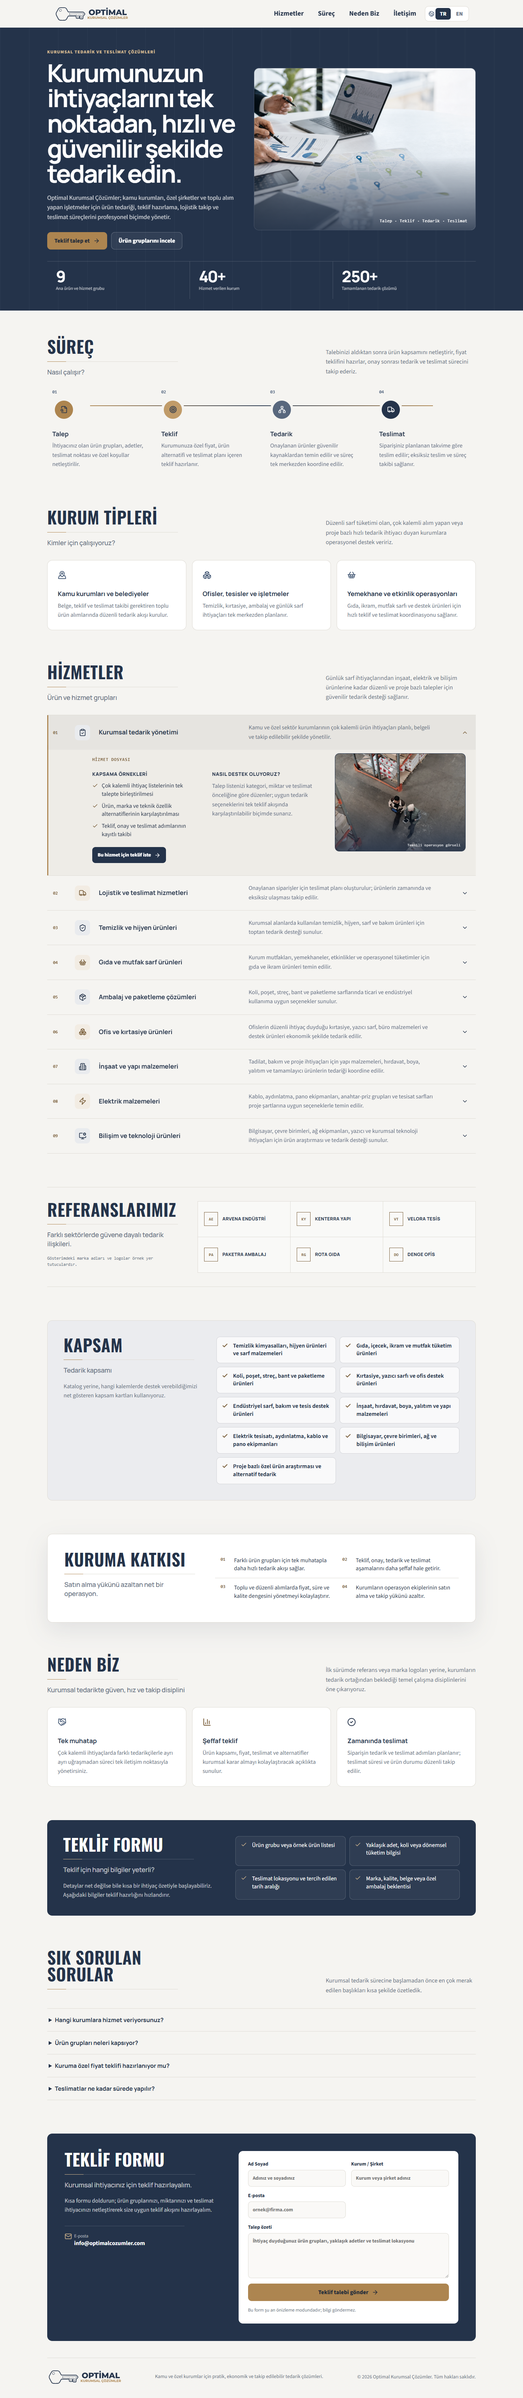
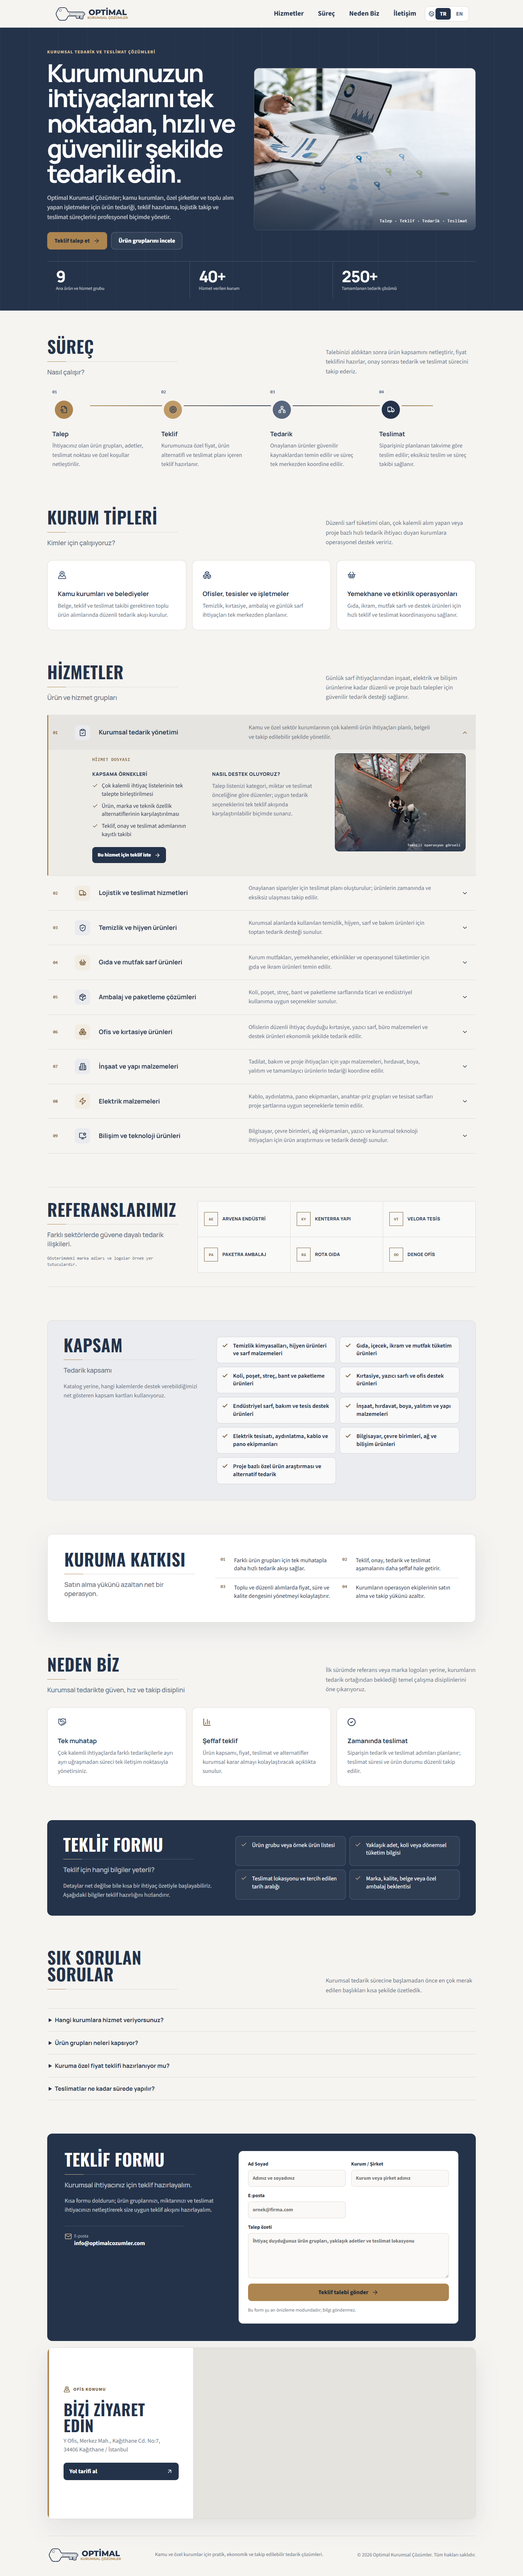
konum eklendi

Changed region(s): [[0.0, 0.0, 1.0, 0.9985], [0.375, 0.2184, 0.5625, 0.2496]]

diff --git a/src/styles.css b/src/styles.css
@@ -144,7 +144,7 @@ p { line-height: 1.58; }
 .hero-stats span { color: rgba(255,255,255,.67); font-size: .78rem; line-height: 1.3; }
 .hero-stats .hero-stat-number { color: inherit; font-size: inherit; line-height: inherit; }
 
-.section, .references-section, .scope-panel, .benefits-band, .quote-panel, .contact-section, .site-footer { width: var(--page); margin-right: auto; margin-left: auto; }
+.section, .references-section, .scope-panel, .benefits-band, .quote-panel, .contact-section, .location-section, .site-footer { width: var(--page); margin-right: auto; margin-left: auto; }
 .card-index, .step-number, .benefit-list span { color: var(--amber-dark); font-family: ui-monospace, SFMono-Regular, Consolas, monospace; font-size: .75rem; font-weight: 800; }
 .section { padding-top: 92px; }
 .section-heading { display: grid; grid-template-columns: minmax(0,1fr) minmax(280px,.58fr); gap: 54px; align-items: end; margin-bottom: 36px; }
@@ -367,6 +367,18 @@ p { line-height: 1.58; }
 .form-button { border: 0; cursor: pointer; }
 .form-note { margin: 0; color: var(--muted); font-size: .82rem; }
 .form-note.is-success { color: var(--green); font-weight: 750; }
+.location-section { display: grid; grid-template-columns: minmax(320px,.68fr) minmax(0,1.32fr); min-height: 470px; margin-top: 18px; overflow: hidden; border: 1px solid var(--line); border-radius: var(--radius); background: var(--surface); box-shadow: var(--shadow); }
+.location-map { grid-column: 2; height: 470px; overflow: hidden; border-left: 1px solid var(--line); background: #e5e3dd; }
+.location-map iframe { display: block; width: 100%; height: 100%; border: 0; filter: saturate(.72) contrast(1.02); }
+.location-card {
+  grid-column: 1; grid-row: 1; display: grid; gap: 24px; align-content: center; min-width: 0; padding: 40px;
+  border-left: 4px solid var(--amber); background: var(--surface);
+}
+.location-kicker { display: flex; align-items: center; gap: 9px; color: var(--amber-dark); font-size: .76rem; font-weight: 850; letter-spacing: .09em; text-transform: uppercase; }
+.location-card h2 { margin: 0 0 10px; font-family: "Oswald Variable", sans-serif; font-size: clamp(2rem,3vw,2.7rem); font-weight: 650; line-height: 1; letter-spacing: .012em; text-transform: uppercase; }
+.location-card address { max-width: 36ch; color: var(--muted); font-style: normal; line-height: 1.5; }
+.location-directions { display: inline-flex; align-items: center; justify-content: space-between; gap: 20px; min-height: 48px; padding: 0 16px; border-radius: 9px; background: var(--navy); color: #fff; font-weight: 800; transition: background 160ms ease, transform 160ms ease; }
+.location-directions:hover { background: var(--blue); transform: translateY(-1px); }
 .site-footer { display: grid; grid-template-columns: auto 1fr auto; gap: 40px; align-items: center; margin-top: 46px; padding: 28px 0 34px; border-top: 1px solid var(--line); color: var(--muted); font-size: .86rem; }
 .site-footer p { margin: 0; text-align: center; }
 
@@ -416,6 +428,9 @@ p { line-height: 1.58; }
   .service-detail { grid-template-columns: 1fr; gap: 24px; padding: 8px 24px 28px 128px; }
   .service-media { order: -1; width: min(100%,520px); }
   .scope-panel, .benefits-band, .quote-panel, .contact-section { gap: 30px; padding: 34px; }
+  .location-section { grid-template-columns: 1fr; }
+  .location-map { grid-column: 1; height: 360px; border: 0; border-top: 1px solid var(--line); }
+  .location-card { grid-column: 1; order: -1; width: 100%; padding: 28px; border: 0; border-top: 4px solid var(--amber); }
   .process-list { grid-template-columns: repeat(2,1fr); gap: 30px 16px; }
   .process-list::before { display: none; }
   .process-item { padding: 0; }
@@ -463,6 +478,8 @@ p { line-height: 1.58; }
   .process-item h3, .process-item p { grid-column: 2; }
   .contact-form { padding: 18px; }
   .contact-form label:nth-of-type(4), .form-button, .form-note { grid-column: 1; }
+  .location-map { height: 300px; }
+  .location-card { gap: 18px; padding: 23px 20px; }
 }
 
 @media (max-width: 360px) {

diff --git a/src/App.tsx b/src/App.tsx
@@ -1,5 +1,5 @@
 import { type FormEvent, useEffect, useMemo, useState } from "react";
-import { ArrowRight, Check, ChevronDown, Globe2, Menu, X } from "lucide-react";
+import { ArrowRight, ArrowUpRight, Check, ChevronDown, Globe2, MapPinned, Menu, X } from "lucide-react";
 import heroImage from "./assets/procurement-hero.png";
 import logo from "./assets/logo.svg";
 import { content, languages, type Language } from "./content";
@@ -401,6 +401,33 @@ export function App() {
                 : (language === "tr" ? "Bu form şu an önizleme modundadır; bilgi göndermez." : "This form is in preview mode and does not send data.")}
             </p>
           </form>
+        </section>
+
+        <section className="location-section" data-reveal aria-labelledby="location-title">
+          <div className="location-map">
+            <iframe
+              title={t.location.mapTitle}
+              src="https://www.google.com/maps?q=Y%20Ofis%2C%20Merkez%2C%20Ka%C4%9F%C4%B1thane%20Cd.%20No%3A7%2C%2034406%20Ka%C4%9F%C4%B1thane%2F%C4%B0stanbul&output=embed"
+              loading="lazy"
+              referrerPolicy="strict-origin-when-cross-origin"
+              allowFullScreen
+            />
+          </div>
+          <div className="location-card">
+            <span className="location-kicker"><MapPinned size={18} aria-hidden="true" />{t.location.label}</span>
+            <div>
+              <h2 id="location-title">{t.location.title}</h2>
+              <address>{t.location.address}</address>
+            </div>
+            <a
+              className="location-directions"
+              href="https://maps.app.goo.gl/VXkYL7VdomXeiivE8"
+              target="_blank"
+              rel="noreferrer"
+            >
+              {t.location.directions}<ArrowUpRight size={18} aria-hidden="true" />
+            </a>
+          </div>
         </section>
       </main>
 

diff --git a/src/content.ts b/src/content.ts
@@ -359,6 +359,13 @@ export const content = {
         { icon: Mail, label: "E-posta", value: "info@optimalcozumler.com" },
       ],
     },
+    location: {
+      label: "Ofis konumu",
+      title: "Bizi ziyaret edin",
+      address: "Y Ofis, Merkez Mah., Kağıthane Cd. No:7, 34406 Kağıthane / İstanbul",
+      directions: "Yol tarifi al",
+      mapTitle: "Y Ofis konumunu gösteren Google Maps haritası",
+    },
     footer: {
       copy: "Kamu ve özel kurumlar için pratik, ekonomik ve takip edilebilir tedarik çözümleri.",
       rights: "Tüm hakları saklıdır.",
@@ -687,6 +694,13 @@ export const content = {
       details: [
         { icon: Mail, label: "Email", value: "info@optimalcozumler.com" },
       ],
+    },
+    location: {
+      label: "Office location",
+      title: "Visit our office",
+      address: "Y Ofis, Merkez Quarter, Kağıthane Avenue No:7, 34406 Kağıthane / Istanbul",
+      directions: "Get directions",
+      mapTitle: "Google Maps showing the Y Ofis location",
     },
     footer: {
       copy: "Practical, economical, and trackable supply solutions for public and private institutions.",
